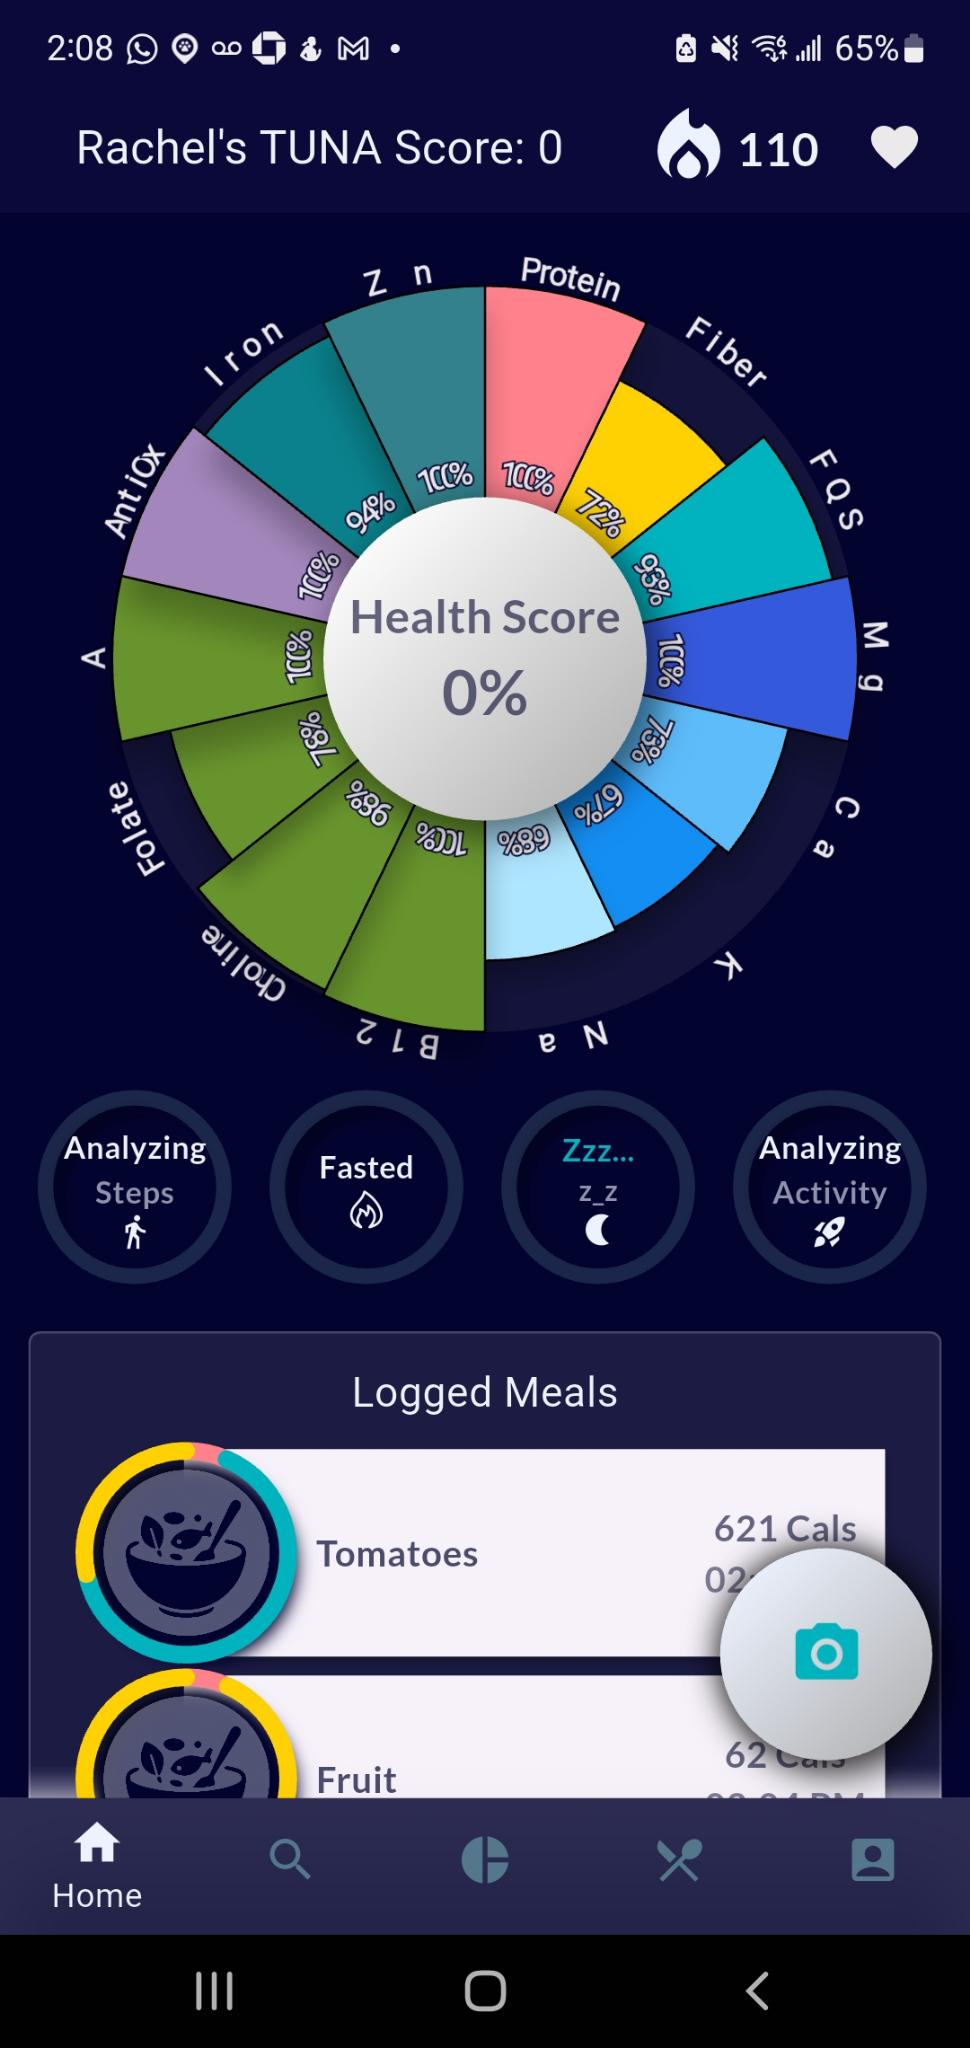
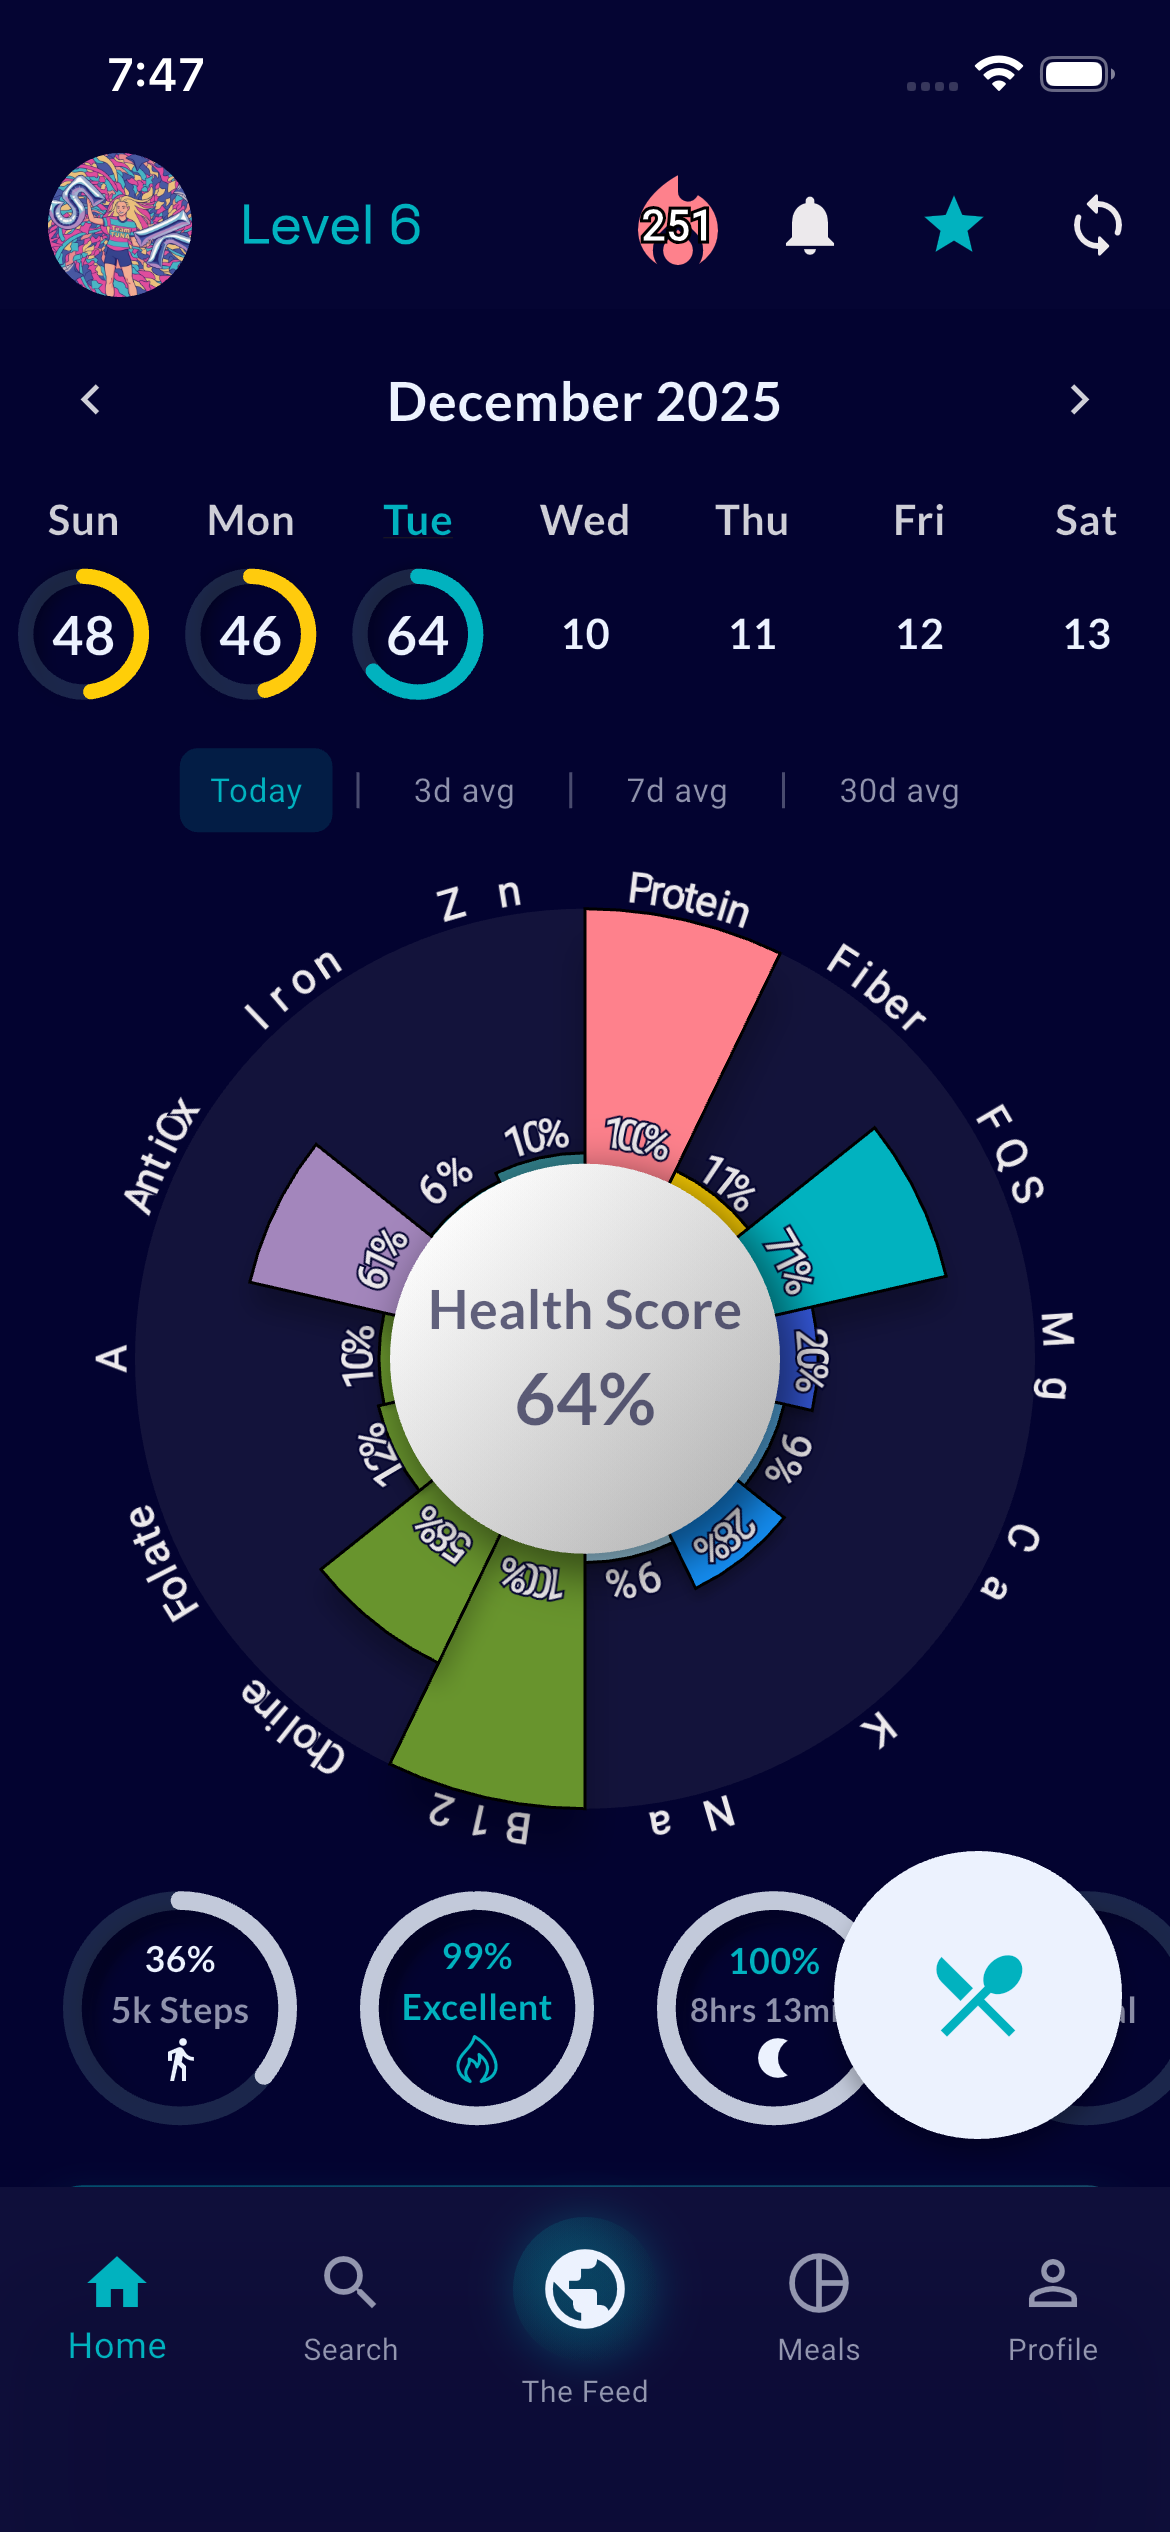
updated app screenshots and animations

diff --git a/index.html b/index.html
@@ -97,7 +97,10 @@
                     </div>
                     <div class="content-image">
                         <div class="phone-mockup">
-                            <img src="placeholder-what-makes-different.png" alt="TUNA Nutrient Intelligence" class="app-screenshot">
+                            <div class="different-image-container">
+                                <img src="placeholder-what-makes-different.png" alt="TUNA Nutrient Intelligence - View 1" class="app-screenshot different-image different-image-1">
+                                <img src="placeholder-what-makes-different2.png" alt="TUNA Nutrient Intelligence - View 2" class="app-screenshot different-image different-image-2">
+                            </div>
                         </div>
                     </div>
                 </div>
@@ -125,25 +128,16 @@
                         <div class="method-icon">📸</div>
                         <h3>Snap a photo</h3>
                         <p>TUNA's AI identifies the foods, estimates quantities, and breaks down the nutrients.</p>
-                        <div class="method-image">
-                            <img src="placeholder-camera-logging.png" alt="Camera logging" class="feature-image">
-                        </div>
                     </div>
                     <div class="logging-method">
                         <div class="method-icon">⌨</div>
                         <h3>Describe it in natural language</h3>
                         <p>Type: "grilled salmon with broccoli and lemon butter" and TUNA builds the meal.</p>
-                        <div class="method-image">
-                            <img src="placeholder-text-logging.png" alt="Text logging" class="feature-image">
-                        </div>
                     </div>
                     <div class="logging-method">
                         <div class="method-icon">🔍</div>
                         <h3>Precision search</h3>
                         <p>A powerful nutrition database with smart indexing for foods, brands, and recipes.</p>
-                        <div class="method-image">
-                            <img src="placeholder-search-logging.png" alt="Search logging" class="feature-image">
-                        </div>
                     </div>
                 </div>
                 <p class="section-footer">Or log a meal your friend shared with one click.<br><strong>Food logging shouldn't feel like work. TUNA makes it fast and frictionless.</strong></p>
@@ -184,7 +178,10 @@
                     </div>
                     <div class="content-image">
                         <div class="phone-mockup">
-                            <img src="placeholder-nutrient-engine.png" alt="Nutrient Intelligence Engine" class="app-screenshot">
+                            <div class="engine-image-container">
+                                <img src="placeholder-nutrient-engine.png" alt="Nutrient Intelligence Engine - View 1" class="app-screenshot engine-image engine-image-1">
+                                <img src="placeholder-nutrient-engine2.png" alt="Nutrient Intelligence Engine - View 2" class="app-screenshot engine-image engine-image-2">
+                            </div>
                         </div>
                     </div>
                 </div>
@@ -227,7 +224,10 @@
                     </div>
                     <div class="content-image">
                         <div class="phone-mockup">
-                            <img src="placeholder-built-for-life.png" alt="Built for Real Life" class="app-screenshot">
+                            <div class="life-image-container">
+                                <img src="placeholder-built-for-life.png" alt="Built for Real Life - View 1" class="app-screenshot life-image life-image-1">
+                                <img src="placeholder-built-for-life2.png" alt="Built for Real Life - View 2" class="app-screenshot life-image life-image-2">
+                            </div>
                         </div>
                     </div>
                 </div>

diff --git a/styles.css b/styles.css
@@ -411,6 +411,31 @@ body {
   background: #040440;
 }
 
+.different-image-container {
+  position: relative;
+  width: 100%;
+}
+
+.different-image {
+  width: 100%;
+  height: auto;
+  opacity: 0;
+  animation: statsImageFade 8s ease-in-out infinite;
+}
+
+.different-image-1 {
+  animation-delay: 0s;
+  position: relative;
+  display: block;
+}
+
+.different-image-2 {
+  animation-delay: 4s;
+  position: absolute;
+  top: 0;
+  left: 0;
+}
+
 /* How Logging Works */
 .how-logging-works {
   padding: 6rem 0;
@@ -441,20 +466,7 @@ body {
 
 .logging-method p {
   color: #d1d5db;
-  margin-bottom: 1.5rem;
   line-height: 1.6;
-}
-
-.method-image {
-  margin-top: 1.5rem;
-}
-
-.feature-image {
-  width: 100%;
-  max-width: 300px;
-  height: auto;
-  border-radius: 1rem;
-  box-shadow: 0 8px 20px rgba(0, 0, 0, 0.3);
 }
 
 /* Nutrient Intelligence Engine */
@@ -462,10 +474,60 @@ body {
   padding: 6rem 0;
 }
 
+.engine-image-container {
+  position: relative;
+  width: 100%;
+}
+
+.engine-image {
+  width: 100%;
+  height: auto;
+  opacity: 0;
+  animation: statsImageFade 8s ease-in-out infinite;
+}
+
+.engine-image-1 {
+  animation-delay: 0s;
+  position: relative;
+  display: block;
+}
+
+.engine-image-2 {
+  animation-delay: 4s;
+  position: absolute;
+  top: 0;
+  left: 0;
+}
+
 /* Built for Real Life */
 .built-for-life {
   padding: 6rem 0;
   background: #040440;
+}
+
+.life-image-container {
+  position: relative;
+  width: 100%;
+}
+
+.life-image {
+  width: 100%;
+  height: auto;
+  opacity: 0;
+  animation: statsImageFade 8s ease-in-out infinite;
+}
+
+.life-image-1 {
+  animation-delay: 0s;
+  position: relative;
+  display: block;
+}
+
+.life-image-2 {
+  animation-delay: 4s;
+  position: absolute;
+  top: 0;
+  left: 0;
 }
 
 /* For Athletes, Biohackers & Longevity */
